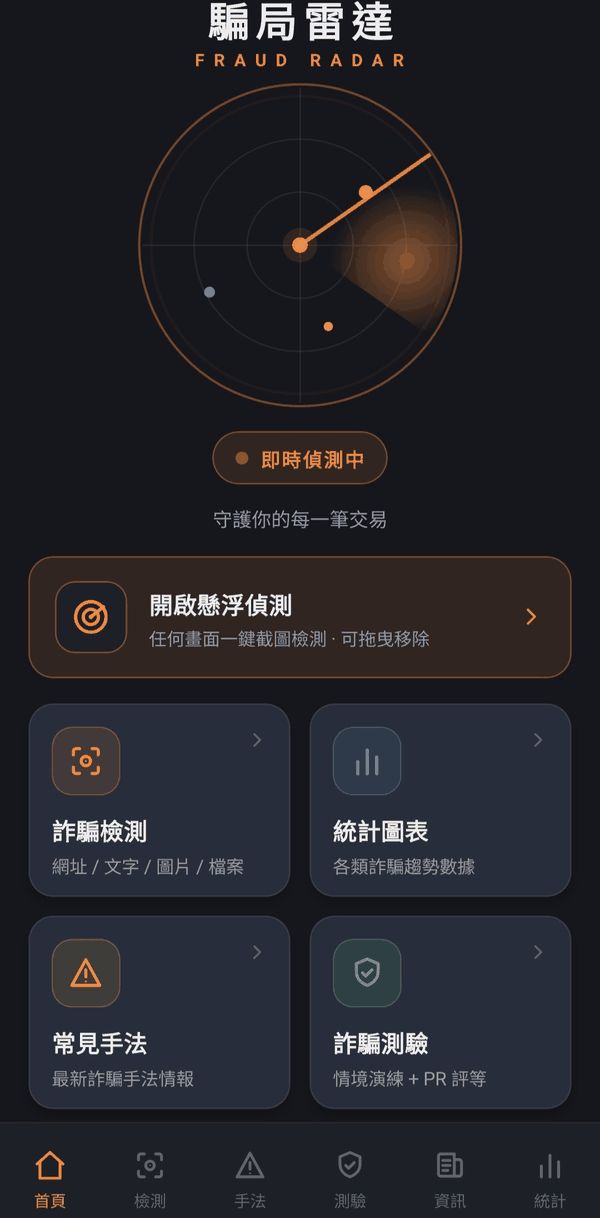
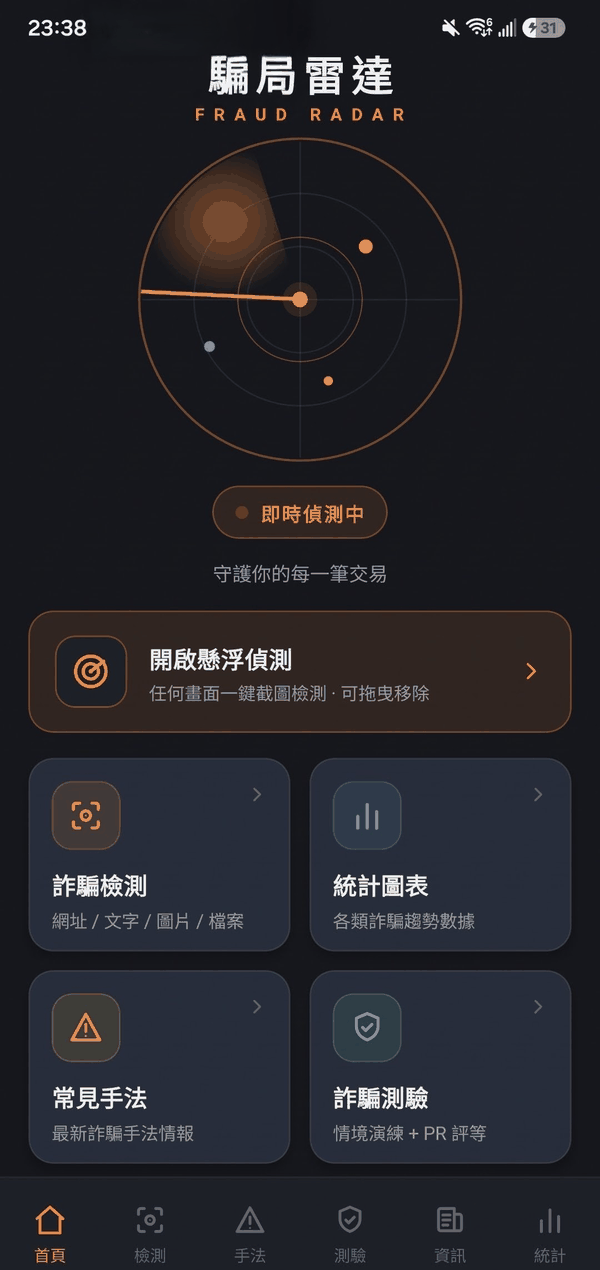
更新readme

diff --git a/README.md b/README.md
@@ -13,19 +13,17 @@
 ![PyTorch](https://img.shields.io/badge/PyTorch-EE4C2C?style=for-the-badge&logo=pytorch&logoColor=white)
 ![Firebase](https://img.shields.io/badge/Firebase-FFCA28?style=for-the-badge&logo=firebase&logoColor=black)
 
-**[線上試用 →](https://mintguess-fraud-radar.hf.space)**
-
 <table>
 <tr>
 <td align="center" valign="top">
-<img src="https://raw.githubusercontent.com/Liao-s-Research-Lab/fraud-radar/main/docs/screenshots/home-desktop.png" alt="網頁版首頁" width="600"><br>
-<sub><b>網頁版</b> · 貼文字／網址／截圖即時偵測</sub>
+<img src="https://raw.githubusercontent.com/Liao-s-Research-Lab/fraud-radar/main/docs/screenshots/home-desktop.png" alt="網頁版首頁" width="644">
+<br><sub><b>網頁版</b> · 貼文字／網址／截圖即時偵測</sub><br><br>
+<a href="https://mintguess-fraud-radar.hf.space"><img src="https://img.shields.io/badge/🌐_線上試用-→-1F6FEB?style=for-the-badge" alt="線上試用"></a>
 </td>
 <td align="center" valign="top">
-<img src="https://raw.githubusercontent.com/Liao-s-Research-Lab/fraud-radar/main/docs/screenshots/app-home.png" alt="Android App 首頁" width="190"><br>
-<sub><b>Android App</b> · 懸浮一鍵偵測</sub>
-<br><br>
-<a href="#-手機-app-安裝android"><img src="https://img.shields.io/badge/📱_安裝_Android_App-→-F97316?style=for-the-badge" alt="安裝 Android App"></a>
+<img src="https://raw.githubusercontent.com/Liao-s-Research-Lab/fraud-radar/main/docs/screenshots/app-home.png" alt="Android App 首頁" width="190">
+<br><sub><b>Android App</b> · 懸浮一鍵偵測</sub><br><br>
+<a href="#-手機-app-安裝android"><img src="https://img.shields.io/badge/📱_安裝_App-→-F97316?style=for-the-badge" alt="安裝 Android App"></a>
 </td>
 </tr>
 </table>
